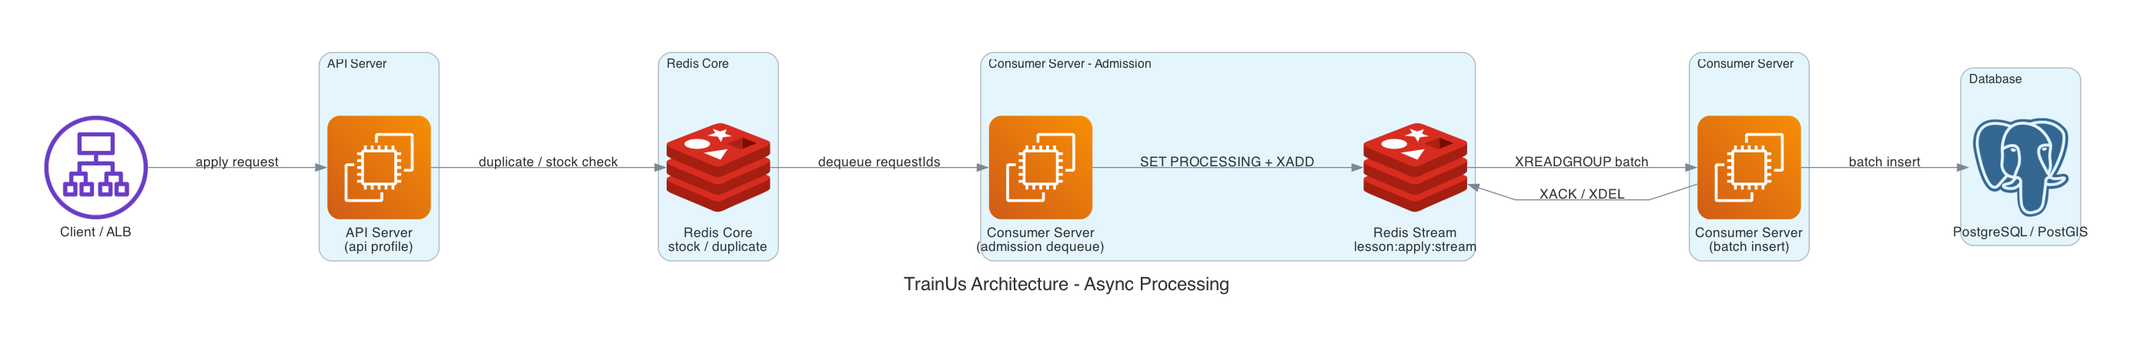
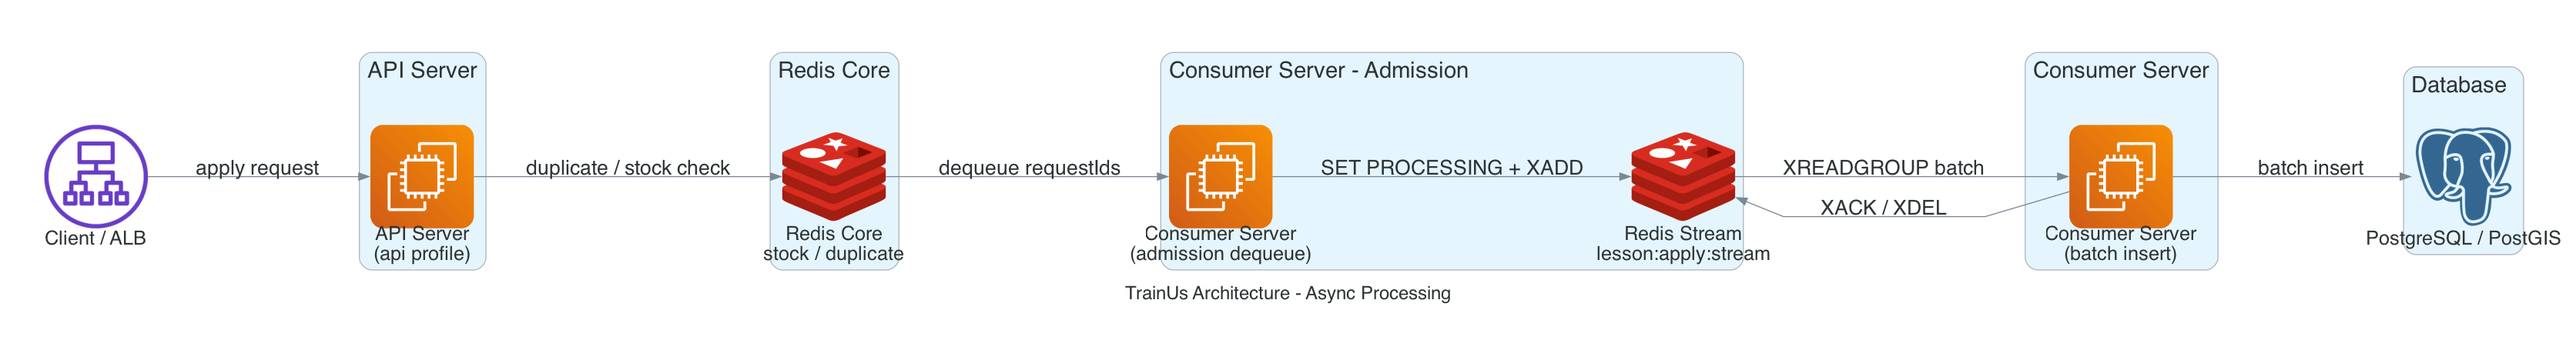
docs: Symphony 테스트 워크플로 정리 (#240)
* docs: Symphony 테스트 워크플로 정리

* docs: 아키텍처 문서 및 시퀀스 다이어그램 보완

Changed region(s): [[0.0, 0.1467, 0.9931, 0.8804]]

diff --git a/docs/architecture/trainus-architecture.py b/docs/architecture/trainus-architecture.py
@@ -22,27 +22,27 @@ graph_attr = {
 }
 
 node_attr = {
-    "fontsize": "18",
-    "margin": "0.14",
+    "fontsize": "19",
+    "margin": "0.20",
 }
 
 edge_attr = {
-    "fontsize": "15",
+    "fontsize": "20",
 }
 
 cluster_attr = {
     "margin": "20",
-    "fontsize": "18",
+    "fontsize": "22",
 }
 
 instance_cluster_attr = {
     "margin": "8",
-    "fontsize": "15",
+    "fontsize": "22",
 }
 
 asg_cluster_attr = {
     "margin": "15",
-    "fontsize": "18",
+    "fontsize": "24",
 }
 
 with Diagram(
@@ -79,7 +79,7 @@ with Diagram(
                 width="1.42",
                 height="0.28",
                 fixedsize="true",
-                fontsize="15",
+                fontsize="19",
             )
             api_app_n = Node(
                 "Spring Boot",
@@ -88,7 +88,7 @@ with Diagram(
                 width="1.42",
                 height="0.28",
                 fixedsize="true",
-                fontsize="15",
+                fontsize="19",
             )
             api_ec2_n - api_app_n
 
@@ -113,7 +113,7 @@ with Diagram(
                 width="1.42",
                 height="0.28",
                 fixedsize="true",
-                fontsize="15",
+                fontsize="19",
             )
             consumer_app_n = Node(
                 "Spring Boot",
@@ -122,7 +122,7 @@ with Diagram(
                 width="1.42",
                 height="0.28",
                 fixedsize="true",
-                fontsize="15",
+                fontsize="19",
             )
             consumer_ec2_n - consumer_app_n
 
@@ -135,15 +135,15 @@ with Diagram(
     alb >> Edge(minlen="2") >> api_ec2_1
     alb >> Edge(minlen="2") >> api_ec2_n
 
-    api_app_1 >> Edge(label="apply request") >> redis_core
-    api_app_1 >> Edge(label="poll status") >> redis_mq
-    api_app_1 >> Edge(label="read/write", color="darkgreen") >> postgres
+    api_app_1 >> Edge(label="apply request", fontsize="20") >> redis_core
+    api_app_1 >> Edge(label="poll status", fontsize="20") >> redis_mq
+    api_app_1 >> Edge(label="read/write", color="darkgreen", fontsize="20") >> postgres
 
-    redis_core >> Edge(label="admit") >> consumer_app_1
-    consumer_app_1 >> Edge(label="XREAD / ACK") >> redis_mq
-    consumer_app_1 >> Edge(label="batch insert") >> postgres
+    redis_core >> Edge(label="admit", fontsize="20") >> consumer_app_1
+    consumer_app_1 >> Edge(label="XREAD / ACK", fontsize="20") >> redis_mq
+    consumer_app_1 >> Edge(label="batch insert", fontsize="20") >> postgres
 
-    prometheus << Edge(label="metrics", style="dashed") << [api_app_1, consumer_app_1]
+    prometheus << Edge(label="metrics", style="dashed", fontsize="20") << [api_app_1, consumer_app_1]
 
-    codedeploy >> Edge(label="deploy api", color="blue", style="dashed", constraint="false") >> api_ec2_1
-    codedeploy >> Edge(label="deploy consumer", color="blue", style="dashed", constraint="false") >> consumer_ec2_1
+    codedeploy >> Edge(label="deploy api", color="blue", style="dashed", constraint="false", fontsize="20") >> api_ec2_1
+    codedeploy >> Edge(label="deploy consumer", color="blue", style="dashed", constraint="false", fontsize="20") >> consumer_ec2_1

diff --git a/docs/architecture/trainus-architecture-async-processing.py b/docs/architecture/trainus-architecture-async-processing.py
@@ -13,6 +13,19 @@ graph_attr = {
     "ranksep": "1.3",
 }
 
+node_attr = {
+    "fontsize": "19",
+    "margin": "0.20",
+}
+
+edge_attr = {
+    "fontsize": "20",
+}
+
+cluster_attr = {
+    "fontsize": "22",
+}
+
 
 with Diagram(
     "TrainUs Architecture - Async Processing",
@@ -21,29 +34,31 @@ with Diagram(
     outformat="png",
     direction="LR",
     graph_attr=graph_attr,
+    node_attr=node_attr,
+    edge_attr=edge_attr,
 ):
     client = ALB("Client / ALB")
 
-    with Cluster("API Server"):
+    with Cluster("API Server", graph_attr=cluster_attr):
         api = EC2("API Server\n(api profile)")
 
-    with Cluster("Redis Core"):
+    with Cluster("Redis Core", graph_attr=cluster_attr):
         core = Redis("Redis Core\nstock / duplicate")
 
-    with Cluster("Consumer Server - Admission"):
+    with Cluster("Consumer Server - Admission", graph_attr=cluster_attr):
         admission = EC2("Consumer Server\n(admission dequeue)")
         stream = Redis("Redis Stream\nlesson:apply:stream")
 
-    with Cluster("Consumer Server"):
+    with Cluster("Consumer Server", graph_attr=cluster_attr):
         consumer = EC2("Consumer Server\n(batch insert)")
 
-    with Cluster("Database"):
+    with Cluster("Database", graph_attr=cluster_attr):
         db = PostgreSQL("PostgreSQL / PostGIS")
 
-    client >> Edge(label="apply request") >> api
-    api >> Edge(label="duplicate / stock check") >> core
-    core >> Edge(label="dequeue requestIds") >> admission
-    admission >> Edge(label="SET PROCESSING + XADD") >> stream
-    stream >> Edge(label="XREADGROUP batch") >> consumer
-    consumer >> Edge(label="batch insert") >> db
-    consumer >> Edge(label="XACK / XDEL", dir="back") >> stream
+    client >> Edge(label="apply request", fontsize="20") >> api
+    api >> Edge(label="duplicate / stock check", fontsize="20") >> core
+    core >> Edge(label="dequeue requestIds", fontsize="20") >> admission
+    admission >> Edge(label="SET PROCESSING + XADD", fontsize="20") >> stream
+    stream >> Edge(label="XREADGROUP batch", fontsize="20") >> consumer
+    consumer >> Edge(label="batch insert", fontsize="20") >> db
+    consumer >> Edge(label="XACK / XDEL", dir="back", fontsize="20") >> stream

diff --git a/WORKFLOW.md b/WORKFLOW.md
@@ -1,0 +1,102 @@
+---
+tracker:
+  kind: linear
+  api_key: $LINEAR_API_KEY
+  project_slug: "ai-test-workflow-94d799fcd978"
+  required_labels:
+    - ai-test-workflow
+  active_states:
+    - Backlog
+    - Todo
+    - Research
+    - Planning
+    - Approved
+    - In Progress
+    - In Review
+    - Rework
+  terminal_states:
+    - Done
+    - Closed
+    - Cancelled
+    - Canceled
+    - Duplicate
+polling:
+  interval_ms: 5000
+workspace:
+  root: ~/code/symphony-workspaces/trainus
+hooks:
+  after_create: |
+    git clone --branch develop https://github.com/prgrms-web-devcourse-final-project/WEB5_7_3star_BE.git .
+agent:
+  max_concurrent_agents: 1
+  max_turns: 8
+codex:
+  command: codex --model gpt-5.4-mini --config model_reasoning_effort="high" --config shell_environment_policy.inherit=all app-server
+  approval_policy: never
+  thread_sandbox: workspace-write
+  turn_sandbox_policy:
+    type: workspaceWrite
+    networkAccess: true
+---
+
+너는 Linear 이슈 `{{ issue.identifier }}`를 작업하고 있다.
+
+이 파일은 실행 설정과 공통 지시만 담는다. 세부 역할, 승인 기준, 테스트 경계는 이슈 본문과 `docs/ai-test-workflow/rules/*.md`에서 정한다.
+
+산출물 경로:
+- Researcher: `docs/ai-test-workflow/reports/research-report.md`
+- Planner: `docs/ai-test-workflow/reports/test-plan.md`
+- Reviewer: `docs/ai-test-workflow/reports/review-report.md`
+- 공통 로그: `docs/ai-test-workflow/logs/prompt-and-tool-log.md`
+
+이슈 정보:
+- 식별자: {{ issue.identifier }}
+- 제목: {{ issue.title }}
+- 현재 상태: {{ issue.state }}
+- 라벨: {{ issue.labels }}
+- URL: {{ issue.url }}
+
+설명:
+{% if issue.description %}
+{{ issue.description }}
+{% else %}
+설명이 없습니다.
+{% endif %}
+
+참조 문서:
+- `docs/ai-test-workflow/rules/agent-roles.md`가 있으면 읽는다.
+- `docs/ai-test-workflow/rules/human-approval-policy.md`가 있으면 읽는다.
+- `docs/ai-test-workflow/rules/test-boundary.md`가 있으면 읽는다.
+- 근거가 부족할 때는 임의로 만들지 말고, 부족한 근거를 기록한 뒤 가능한 범위의 분석만 계속한다.
+
+출력 규칙:
+- 이슈 결과, 리포트 파일, 로그 항목, Linear 코멘트, 최종 응답은 모두 한국어로 작성한다.
+- 코드 식별자, 파일 경로, 클래스명, 메서드명, 명령어, 예외명은 원문 그대로 유지한다.
+
+작업 원칙:
+1. Linear 이슈를 작업의 단일 기준으로 삼는다.
+2. 이슈 본문에 적힌 역할과 범위를 따른다.
+3. 이슈 범위를 벗어나지 않는다.
+4. 이슈에 사람 승인이 필요하면, 요청된 리포트 또는 계획만 만든 뒤 멈춘다.
+5. Implementer 역할이 명시되고 승인이 완료되지 않으면 운영 코드를 수정하지 않는다.
+6. 이슈가 워크플로 증거를 요구하면 `docs/ai-test-workflow/logs/prompt-and-tool-log.md`에 프롬프트/도구 사용 내역을 기록한다.
+7. 최종 응답에는 완료한 작업, 수정한 파일, 실행한 검증, 남은 블로커를 요약한다.
+8. 리포트를 작성할 때는 `목적, 확인한 근거, 발견 사항, 한계/블로커, 다음 단계`처럼 간결한 한국어 섹션을 우선 사용한다.
+
+상태 전이:
+- `Backlog`: 아직 착수하지 않은 이슈다.
+- `Todo`: 작업 대기 상태다.
+- `Research`: 저장소 근거를 조사하는 단계다.
+- `Planning`: 계획을 정리했고 사람 승인을 기다리는 단계다. 이 상태에서는 구현을 시작하지 않는다.
+- `Approved`: 사람이 승인했고 구현을 시작할 수 있는 단계다. 이 상태에서만 Implementer가 동작한다.
+- `In Progress`: 승인된 범위 안에서 구현 중인 단계다.
+- `In Review`: 구현이 끝났고 결과를 검토하는 단계다. 이 상태에서는 Reviewer만 검토를 수행한다.
+- `Rework`: 검토 결과 수정이 필요한 단계다. 이 상태에서는 같은 범위만 다시 수정한다.
+- `Done`: 최종 수용이 끝난 상태다.
+
+워크플로 메모:
+- PR, 커밋, 리포트, 로그 같은 산출물은 상태가 아니라 작업 결과로 다룬다.
+- Linear 상태는 작업의 진행 단계만 표현하고, 세부 산출물은 리포트/로그 문서로 남긴다.
+- PR 본문이 필요하면 `.github/PULL_REQUEST_TEMPLATE.md`의 항목 순서와 제목을 그대로 따라 작성한다.
+- PR 본문은 자유 서술로 대체하지 말고, 작업 개요 / 작업 내용 / PR 유형 / Check List / 관련 이슈 / 기타 참고 사항 항목을 빠짐없이 채운다.
+- PR의 `관련 이슈`에는 GitHub 이슈 목록을 확인한 뒤 실제 이슈 번호를 `#123` 형식으로 적는다.

diff --git a/README.md b/README.md
@@ -179,6 +179,77 @@ Redis는 목적에 따라 Core Redis와 MQ Redis로 분리해 사용합니다.
 | `redis-core` | 6379 | 재고, 중복 신청, 대기열, 분산 락 |
 | `redis-mq` | 6380 | Redis Stream, 신청 처리 상태 |
 
+## 시퀀스 다이어그램
+
+### 선착순 신청 흐름
+
+```mermaid
+---
+config:
+  theme: redux-color
+  themeCSS: |
+    text.actor {
+      font-size: 17px !important;
+    }
+    .messageText {
+      font-size: 19px !important;
+    }
+    .note {
+      fill: #f1f5f9 !important;
+      stroke: #cbd5e1 !important;
+    }
+    .noteText {
+      font-size: 17px !important;
+    }
+    .labelText {
+      font-size: 17px !important;
+    }
+    .loopText {
+      font-size: 17px !important;
+    }
+---
+sequenceDiagram
+    autonumber
+    actor User
+    participant API as API Server
+    participant Core as Redis Core<br/>(Sorted Set)
+    participant Consumer as Consumer Server
+    participant Stream as Redis Stream
+    participant DB as PostgreSQL / PostGIS
+
+    activate API
+    User->>API: POST /lesson/apply
+    API->>Core: 재고 선점 / 중복 확인 / 대기열 등록
+    Note over API,Core: requestId는 Sorted Set Waiting Room에서 대기
+    API-->>User: requestId 반환
+    deactivate API
+
+    activate Consumer
+    rect rgb(255, 242, 242)
+    Note over Core,Stream: Admission 단계
+    Consumer->>Core: 대기열 requestId dequeue
+    Consumer->>Core: 상태변경: PROCESSING
+    Consumer->>Stream: XADD 신청 메시지
+    end
+    Note over Consumer,Stream: 신청 메시지는 Redis Stream에 적재
+    rect rgb(239, 246, 255)
+    Note over Core,DB: Consumer 처리 단계
+    Stream-->>Consumer: XREADGROUP
+    Consumer->>DB: DB 반영
+    Consumer->>Core: 상태변경: SUCCESS / FAIL
+    end
+    deactivate Consumer
+
+    loop requestId polling
+        activate API
+        User->>API: GET /lesson/apply/{requestId}
+        API->>Core: 상태 조회
+        Core-->>API: WAITING / PROCESSING / SUCCESS / FAIL
+        API-->>User: 현재 상태 응답
+        deactivate API
+    end
+```
+
 ## 배포 자동화
 
 배포는 GitHub Actions, S3, CodeDeploy를 사용합니다. 

diff --git a/.github/PULL_REQUEST_TEMPLATE.md b/.github/PULL_REQUEST_TEMPLATE.md
@@ -20,6 +20,6 @@
 - [x] Label을 지정했나요?
 
 ## 🔗 관련 이슈
-
+- 
 
 ## 💬 기타 참고 사항
